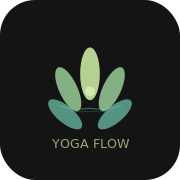
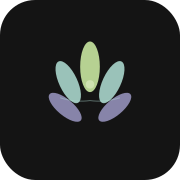
아이콘 및 버그 수정

Changed region(s): [[0.25, 0.2222, 0.75, 0.7222], [0.2778, 0.75, 0.7222, 0.8333]]

diff --git a/index.html b/index.html
@@ -121,7 +121,7 @@ input,select,textarea{font-family:inherit}
 /* Home */
 .home-hdr{padding:24px 20px 16px;display:flex;justify-content:space-between;align-items:flex-start}
 .home-logo{display:flex;align-items:center;gap:10px}
-.home-lotus{width:36px;height:36px;flex-shrink:0}
+.home-lotus{width:36px;height:36px;flex-shrink:0;display:block}
 .home-hdr h1{font-family:var(--serif);font-size:22px;font-weight:300;margin-top:4px;letter-spacing:-.2px;line-height:1.2}
 .app-name{font-size:10px;color:var(--t3);letter-spacing:1.5px;text-transform:uppercase}
 .icon-btn{width:36px;height:36px;border-radius:50%;background:var(--bg2);display:flex;align-items:center;justify-content:center;color:var(--t2)}
@@ -532,7 +532,7 @@ function poseSub(p){const n=state.poseNaming;if(n==='ko-sanskrit')return p.nameK
 function poseCount(poses){return poses.reduce((c,p)=>c+(p.type==='flow'?(p.poses||[]).length:1),0)}
 
 function initSample(){
-  if(LS.get(KEYS.SEQ))return;
+  if(LS.get(KEYS.SEQ)||LS.get(KEYS.CLS))return;
   const seqs=[
     {id:uid(),title:'Morning vinyasa flow',titleKo:'모닝 빈야사 플로우',style:'vinyasa',duration:60,level:'intermediate',tags:['hip opener','morning'],source:'manual',poses:[
       {id:uid(),name:"Child's pose",nameKo:'아이 자세',sanskrit:'Balasana',section:'warmup',hold:'5 breaths',side:'both'},
@@ -643,7 +643,7 @@ function renderHome(){
   const seqs=getSeqs();const today=new Date().getDay();const cls=getClasses().filter(c=>Array.isArray(c.days)?c.days.includes(today):c.dayOfWeek===today);
   const now=new Date();const dateStr=now.toLocaleDateString(state.lang==='ko'?'ko-KR':'en-US',{weekday:'short',month:state.lang==='ko'?'numeric':'short',day:'numeric'}); 
   return `
-<div class="home-hdr"><div class="home-logo"><svg class="home-lotus" viewBox="130 140 260 200" fill="none"><g transform="translate(256,260)"><ellipse cx="0" cy="-70" rx="28" ry="72" fill="#C8E6A0" opacity="0.9"/><ellipse cx="-45" cy="-50" rx="26" ry="65" fill="#B2E0D6" opacity="0.85" transform="rotate(-25)"/><ellipse cx="-80" cy="-25" rx="23" ry="58" fill="#B8B4E8" opacity="0.7" transform="rotate(-50)"/><ellipse cx="45" cy="-50" rx="26" ry="65" fill="#B2E0D6" opacity="0.85" transform="rotate(25)"/><ellipse cx="80" cy="-25" rx="23" ry="58" fill="#B8B4E8" opacity="0.7" transform="rotate(50)"/><circle cx="0" cy="-20" r="12" fill="#E8F5D0" opacity="0.5"/><path d="M-85,18 Q-42,32 0,26 Q42,32 85,18" stroke="#B2E0D6" stroke-width="3" fill="none" opacity="0.4"/></g></svg><div><p class="app-name">${t('appName').toUpperCase()}</p><h1>Yoga Flow</h1></div></div>
+<div class="home-hdr"><div class="home-logo"><svg class="home-lotus" viewBox="120 130 280 210" fill="none"><g transform="translate(256,260)"><ellipse cx="0" cy="-70" rx="28" ry="72" fill="#C8E6A0" opacity="0.9"/><ellipse cx="-45" cy="-50" rx="26" ry="65" fill="#B2E0D6" opacity="0.85" transform="rotate(-25)"/><ellipse cx="-80" cy="-25" rx="23" ry="58" fill="#B8B4E8" opacity="0.7" transform="rotate(-50)"/><ellipse cx="45" cy="-50" rx="26" ry="65" fill="#B2E0D6" opacity="0.85" transform="rotate(25)"/><ellipse cx="80" cy="-25" rx="23" ry="58" fill="#B8B4E8" opacity="0.7" transform="rotate(50)"/><circle cx="0" cy="-20" r="12" fill="#E8F5D0" opacity="0.5"/><path d="M-85,18 Q-42,32 0,26 Q42,32 85,18" stroke="#B2E0D6" stroke-width="3" fill="none" opacity="0.4"/></g></svg><div><p class="app-name">${t('appName').toUpperCase()}</p><h1>Yoga Flow</h1></div></div>
 <button class="icon-btn" onclick="nav('settings')">${IC.cog}</button></div>
 <div style="padding:0 0 12px"><div class="sec-hdr"><p class="sec-title">${t('todayClasses')}</p><p class="sec-meta">${dateStr}</p></div>
 <div class="today-scroll">${cls.length?cls.map((c,i)=>`<div class="cls-card ${i===0?'cls-next':''}" onclick="openClassModal('${c.id}')"><div class="cls-top"><span class="cls-time">${c.time}${c.endTime?' - '+c.endTime:''}</span>${i===0?`<span class="b-next">${t('next')}</span>`:''}</div><p class="cls-name">${state.lang==='ko'?(c.nameKo||c.name):c.name}</p></div>`).join(''):`<div class="cls-card"><p style="font-size:13px;color:var(--t3)">${t('noClasses')}</p></div>`}
@@ -1223,9 +1223,11 @@ function bindEvents(){
 
 // Init
 initSample();
-const APP_VER='1.5.0';
+const APP_VER='1.6.0';
 if(localStorage.getItem('yoga_ver')!==APP_VER){
-  LS.del(KEYS.SET);localStorage.setItem('yoga_ver',APP_VER);saveSettings();
+  // Preserve existing data, only refresh default settings if none exist
+  if(!LS.get(KEYS.SET))saveSettings();
+  localStorage.setItem('yoga_ver',APP_VER);
 }
 loadSettings();render();bindEvents();
 

diff --git a/sw.js b/sw.js
@@ -1,4 +1,4 @@
-const CACHE_NAME = 'yoga-flow-v1.5.0';
+const CACHE_NAME = 'yoga-flow-v1.6.0';
 const ASSETS = [
   './',
   './index.html',
